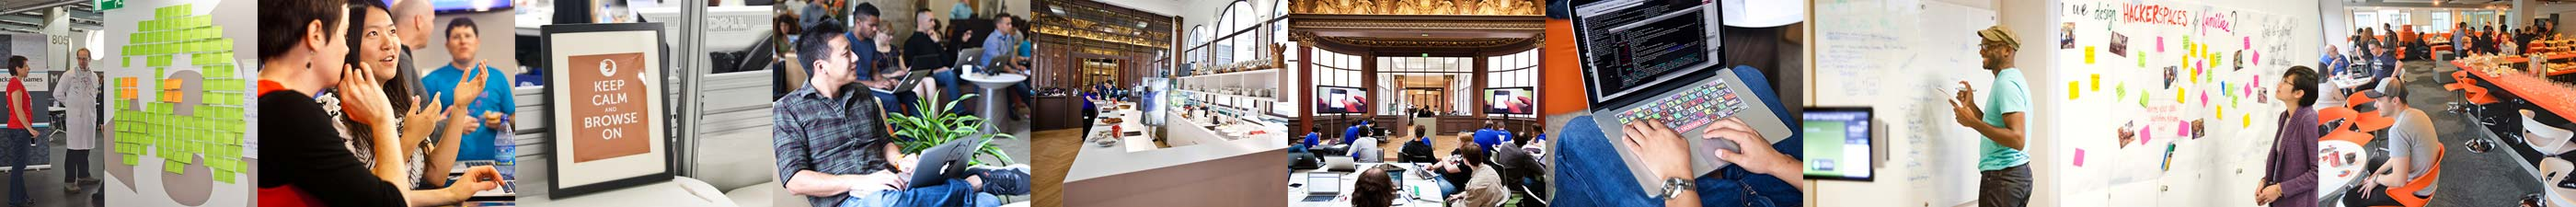
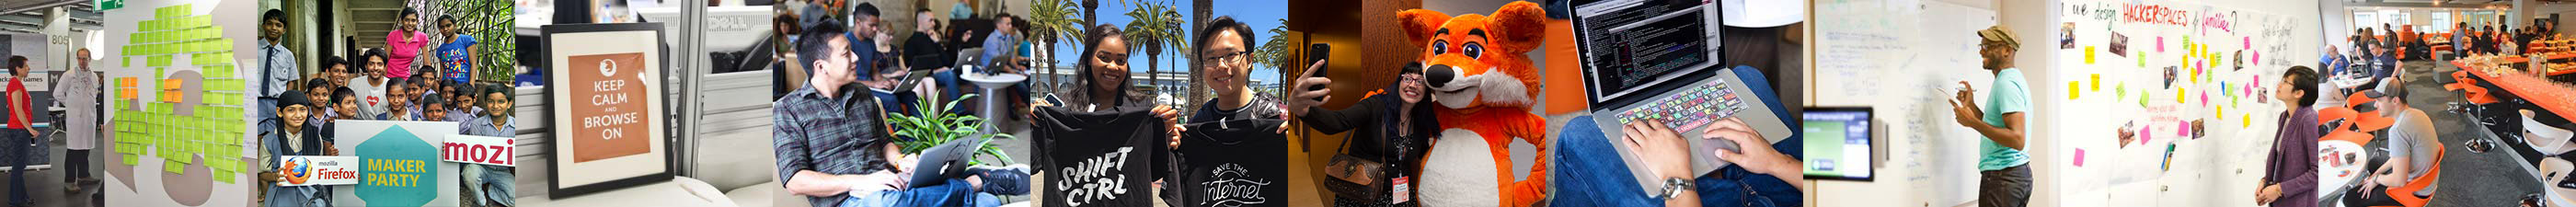
Fix Bug 1460718: Update images
- Inserted new images
- Added highlight effect to titles appearing over images

diff --git a/careers/university/static/css/university.css b/careers/university/static/css/university.css
@@ -15,8 +15,7 @@
 /*  -------------------------------------------------------------------
     University Intro
     - big banner with paragraphs and buttons stacked underneath
-    - image is actually the h2 tag to responsivly load appropriate image without loading wrong one first
-        - all background-image definitions should be inside media queries
+    - all background-image definitions should be inside media queries
         - see: http://timkadlec.com/2012/04/media-query-asset-downloading-results/
     - buttons become absolute positioned and display over banner at big enough sizes
     - paragraphs float left and right when large enough
@@ -27,23 +26,23 @@
     position: relative;
     color: #fff;
     background-color: #4d4e53;
+    background-position: top center;
+    background-repeat: no-repeat;
     -webkit-font-smoothing: antialiased;
-    text-align: center;
 }
 
-#uintro h2 {
+.uintro-head-inner {
     -moz-box-sizing: border-box;
          box-sizing: border-box;
+    max-width: 980px;
     height: 264px;
     margin: 0 auto;
-    padding-top: 90px;
-    background-color: #97938c;
+    padding: 90px 20px 0 20px;
     background-position: center top;
     background-repeat: no-repeat;
     font-family: 'Zilla', serif;
     font-size: 32px;
     font-weight: bold;
-    text-align: center;
     text-shadow: 0 0 2px rgba(0, 0, 0, 0.7);
 }
 
@@ -61,13 +60,13 @@
     }
 
 @media (max-width: 320px) {
-    #uintro h2 {
+    #uintro {
         background-image: url(/static/img/university-banner-320.jpg);
     }
 }
 
 @media (min-width: 321px) and (max-width: 680px) {
-    #uintro h2 {
+    #uintro {
         background-image: url(/static/img/university-banner-680.jpg);
     }
 }
@@ -75,12 +74,12 @@
 @media (min-width: 681px) {
     #uintro {
         padding-bottom: 10px;
+        background-image: url(/static/img/university-banner-920.jpg);
     }
 
-    #uintro h2 {
+    .uintro-head-inner {
         height: 376px;
         padding-top: 120px;
-        background-image: url(/static/img/university-banner-920.jpg);
         font-size: 50px;
         line-height: 1;
     }
@@ -102,25 +101,24 @@
 
     #uintro .cta {
         position: absolute;
-        top: 250px;
-        right: 50.5%;
+        top: 268px;
+        left: 20px;
     }
 
      #uintro .cta + .cta {
-         right: auto;
-         left: 50.5%;
+         left: 255px;
      }
 }
 
 @media (min-width: 921px) {
     #uintro {
         padding-bottom: 25px;
+        background-image: url(/static/img/university-banner-1280.jpg);
     }
 
-    #uintro h2 {
+    .uintro-head-inner {
         height: 500px;
         padding-top: 170px;
-        background-image: url(/static/img/university-banner-1280.jpg);
         font-size: 60px;
     }
 
@@ -131,20 +129,29 @@
             font-size: 26px;
         }
 
-
     #uintro .cta {
         top: 350px;
     }
 }
 
+@media (min-width: 980px) {
+    #uintro .cta {
+        left: calc(50% - 469px);
+    }
+
+     #uintro .cta + .cta {
+         left: calc(50% - 234px);
+     }
+ }
+
 @media (min-width: 1281px) {
-    #uintro h2 {
+    #uintro {
         background-image: url(/static/img/university-banner-1680.jpg);
     }
 }
 
 @media (min-width: 1681px) {
-    #uintro h2 {
+    #uintro {
         background-image: url(/static/img/university-banner-2560.jpg);
     }
 }

diff --git a/careers/careers/static/css/careers.css b/careers/careers/static/css/careers.css
@@ -41,14 +41,13 @@
     background-repeat: no-repeat;
     background-position: top center;
     color: #fff;
-    text-align: center;
 }
 
 .splash-head {
     -moz-box-sizing: border-box;
          box-sizing: border-box;
     height: 382px;
-    max-width: 510px;
+    max-width: 980px;
     margin: 0 auto;
     padding: 40px 20px 80px 20px;
     font-family: 'Zilla', serif;
@@ -57,10 +56,18 @@
     text-shadow: 0 0 2px rgba(0, 0, 0, 0.7);
 }
 
+.splash-head-inner {
+    max-width: 470px;
+}
+
 .splash-subhead {
+    -moz-box-sizing: border-box;
+         box-sizing: border-box;
     height: 40px;
+    max-width: 980px;
     overflow: hidden;
-    margin: -70px 0 29px 0;
+    margin: -70px auto 29px auto;
+    padding: 0 20px;
     font-size: 18px;
     font-family: 'Zilla', serif;
     text-shadow: 0 0 2px rgba(0, 0, 0, 0.7);
@@ -127,8 +134,8 @@
     .splash-head {
         display: -webkit-flex;
         display:         flex;
-        -webkit-justify-content: center;
-                justify-content: center;
+        -webkit-justify-content: flex-start;
+                justify-content: flex-start;
         -webkit-align-items: center;
                 align-items: center;
     }
@@ -144,7 +151,7 @@
     }
 
     .splash-subhead {
-        margin: -85px 0 44px 0;
+        margin: -85px auto 44px auto;
         font-size: 14px;
     }
 
@@ -172,13 +179,16 @@
 @media (min-width: 921px) {
     .splash-head {
         height: 502px;
-        max-width: 660px;
         padding-top: 100px;
         font-size: 55px;
     }
 
+    .splash-head-inner {
+        max-width: 670px;
+    }
+
     .splash-subhead {
-        margin: -115px 0 74px 0;
+        margin: -115px auto 74px auto;
         font-size: 21px;
     }
 
@@ -223,11 +233,11 @@
     #splash { background-image: url(/static/img/careers-banner-1280.jpg); }
 }
 
-@media (min-width: 921px) and (max-width: 1680px) {
+@media (min-width: 1281px) and (max-width: 1680px) {
     #splash { background-image: url(/static/img/careers-banner-1680.jpg); }
 }
 
-@media (min-width: 1680px) {
+@media (min-width: 1681px) {
     #splash { background-image: url(/static/img/careers-banner-2560.jpg); }
 }
 

diff --git a/careers/careers/static/css/listings.css b/careers/careers/static/css/listings.css
@@ -45,13 +45,13 @@
     color: #fff;
     font-size: 15px;
     font-weight: 600;
-    text-align: center;
     -webkit-font-smoothing: antialiased;
 }
 
     .listings-intro-head {
-        margin: 0 0 20px 0;
-        padding-top: 70px;
+        max-width: 940px;
+        margin: 0 auto 20px auto;
+        padding: 70px 20px 0 20px;
         font-family: 'Zilla', serif;
         font-size: 32px;
         font-weight: bold;
@@ -59,9 +59,12 @@
     }
 
     .listings-intro-body {
+        max-width: 940px;
         margin: 0 auto;
         padding: 0 20px;
-        max-width: 480px;
+        font-family: 'Zilla', serif;
+        font-size: 18px;
+        font-weight: normal;
     }
 
 #listings {
@@ -262,10 +265,6 @@
         font-size: 51px;
     }
 
-    .listings-intro-body {
-        width: 54.2%;
-    }
-
     #listings {
         padding-bottom: 145px;
         background: url(/static/img/listings-bg-tablet.jpg) bottom center no-repeat;
@@ -428,6 +427,10 @@
     .listings-intro-head {
         padding-top: 90px;
         font-size: 68px;
+    }
+
+    .listings-intro-body {
+        font-size: 21px;
     }
 
      #listings {

diff --git a/careers/base/static/css/base.css b/careers/base/static/css/base.css
@@ -205,6 +205,13 @@ figure {
     position: absolute;
 }
 
+.highlight {
+    box-decoration-break: clone;
+    background-color: #000;
+    color: #fff;
+    line-height: 1.3;
+    padding: 0 5px;
+  }
 
 /*  ===================================================================
     Modules
@@ -654,7 +661,9 @@ figure {
         background: #2374c6;
         background: -webkit-linear-gradient(#2f9ace, #01539f);
         background:         linear-gradient(#2f9ace, #01539f);
+        font-family: 'Zilla', serif;
         font-size: 0;
+        text-align: center;
     }
         .cta-strip:before,
         .cta-strip:after {

diff --git a/careers/university/static/css/university-ie8.css b/careers/university/static/css/university-ie8.css
@@ -1,5 +1,9 @@
-#uintro h2 {
+#uintro {
     background-image: url(/static/img/university-banner-920.jpg);
+}
+
+#uintro h2 {
+    height: 400px;
 }
 
 .video-js {
